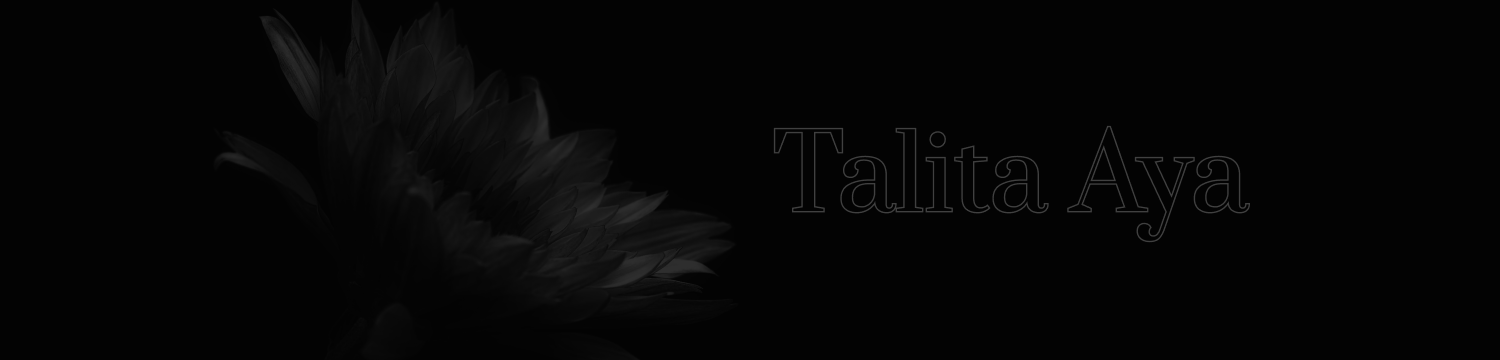
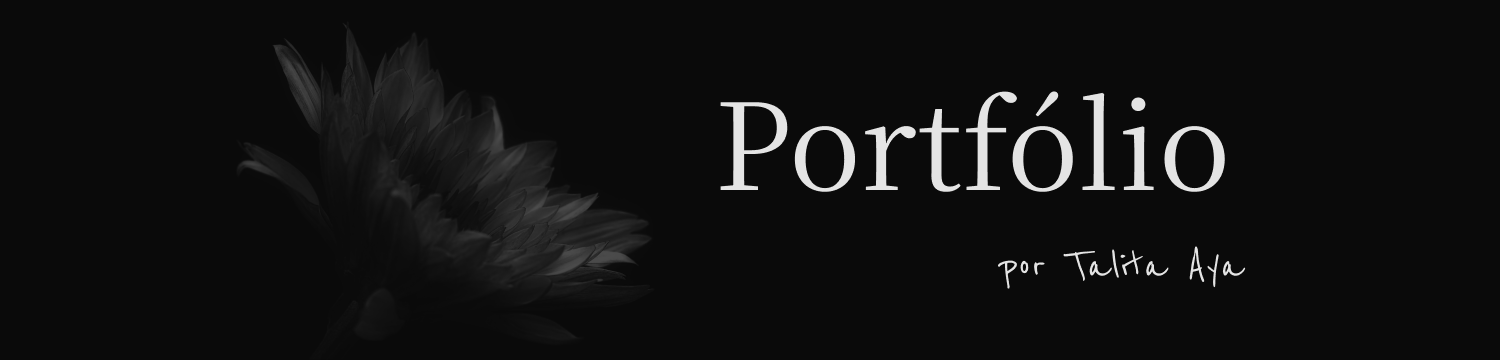
readme atualizado

diff --git a/README.md b/README.md
@@ -9,9 +9,9 @@ Esta é uma landing page responsiva totalmente desenvolvida utilizando HTML, CSS
 <br/>
 
 ## ⋙ Design ⋘
-As inspirações para o desenvolvimento do design baseiam-se em elementos simples e neutros, de modo a destacar os trabalhos que seriam expostos. Nesta terceira versão do portfólio alterei detalhes que me incomodavam e busquei tornar tudo mais compacto e objetivo, além de adicionar funcionalidades para melhorar a usabilidade dos que acessarem, sendo o carrossel a funcionalidade que sofreu maior alteração quando comparado com os projetos anteriores.
+As inspirações para o desenvolvimento do design baseiam-se em elementos simples e neutros, de modo a destacar os trabalhos que seriam expostos. Nesta quarta versão do portfólio alterei detalhes que me incomodavam e busquei tornar tudo mais explicativo e organizado, bem como adicionar uma página para cada projeto contendo mais informações sobre o mesmo.
 
-Assim, o design final se encontra no seguinte [link](https://www.figma.com/file/xp5Rlu5ryvemoTPNWFWS4r/portf%C3%B3lio-3?type=design&node-id=19%3A5&mode=design&t=L4XtASwZkxyxXYSy-1), juntamente com todo o processo criativo desta landing page.
+Assim, o design final se encontra no seguinte [link](https://www.figma.com/file/weqFuOxVPwXi77WzUjjq8M/portf%C3%B3lio-4?type=design&node-id=1%3A174&mode=design&t=u0nDYd5GFaA4aI59-1), juntamente com todo o processo criativo desta landing page.
 
 > Nenhuma das imagens utilizadas são autorais, foram todas retiradas do  [Unsplash](https://unsplash.com/). Para os ícones, foi utilizada o plugin  [Iconify](https://www.figma.com/community/plugin/735098390272716381/Iconify)  do Figma.
 
@@ -23,5 +23,9 @@ Foram criadas 4 seções diferentes para melhor organização:
 
 1.  **Banner:**  banner principal do portfólio
 2.  **Sobre mim:**  breves informações a meu respeito
-3.  **Portfólio:**  onde estão e serão armazenados os projetos escolhidos
+3.  **Projetos:**  onde estão e serão armazenados os projetos escolhidos
 4.  **Contato:**  plataformas para que consigam me contatar
+
+Além disso, ao clicar no botão "Ver mais projetos" na aba Projetos, o usuário terá acesso a todos os outros projetos que não foram apresentados na página principal e cada design possui uma tela própria contendo detalhes sobre a criação, escolha de elementos e protótipo completo do mesmo.
+
+Espero que gostem dessa nova versão! :)
